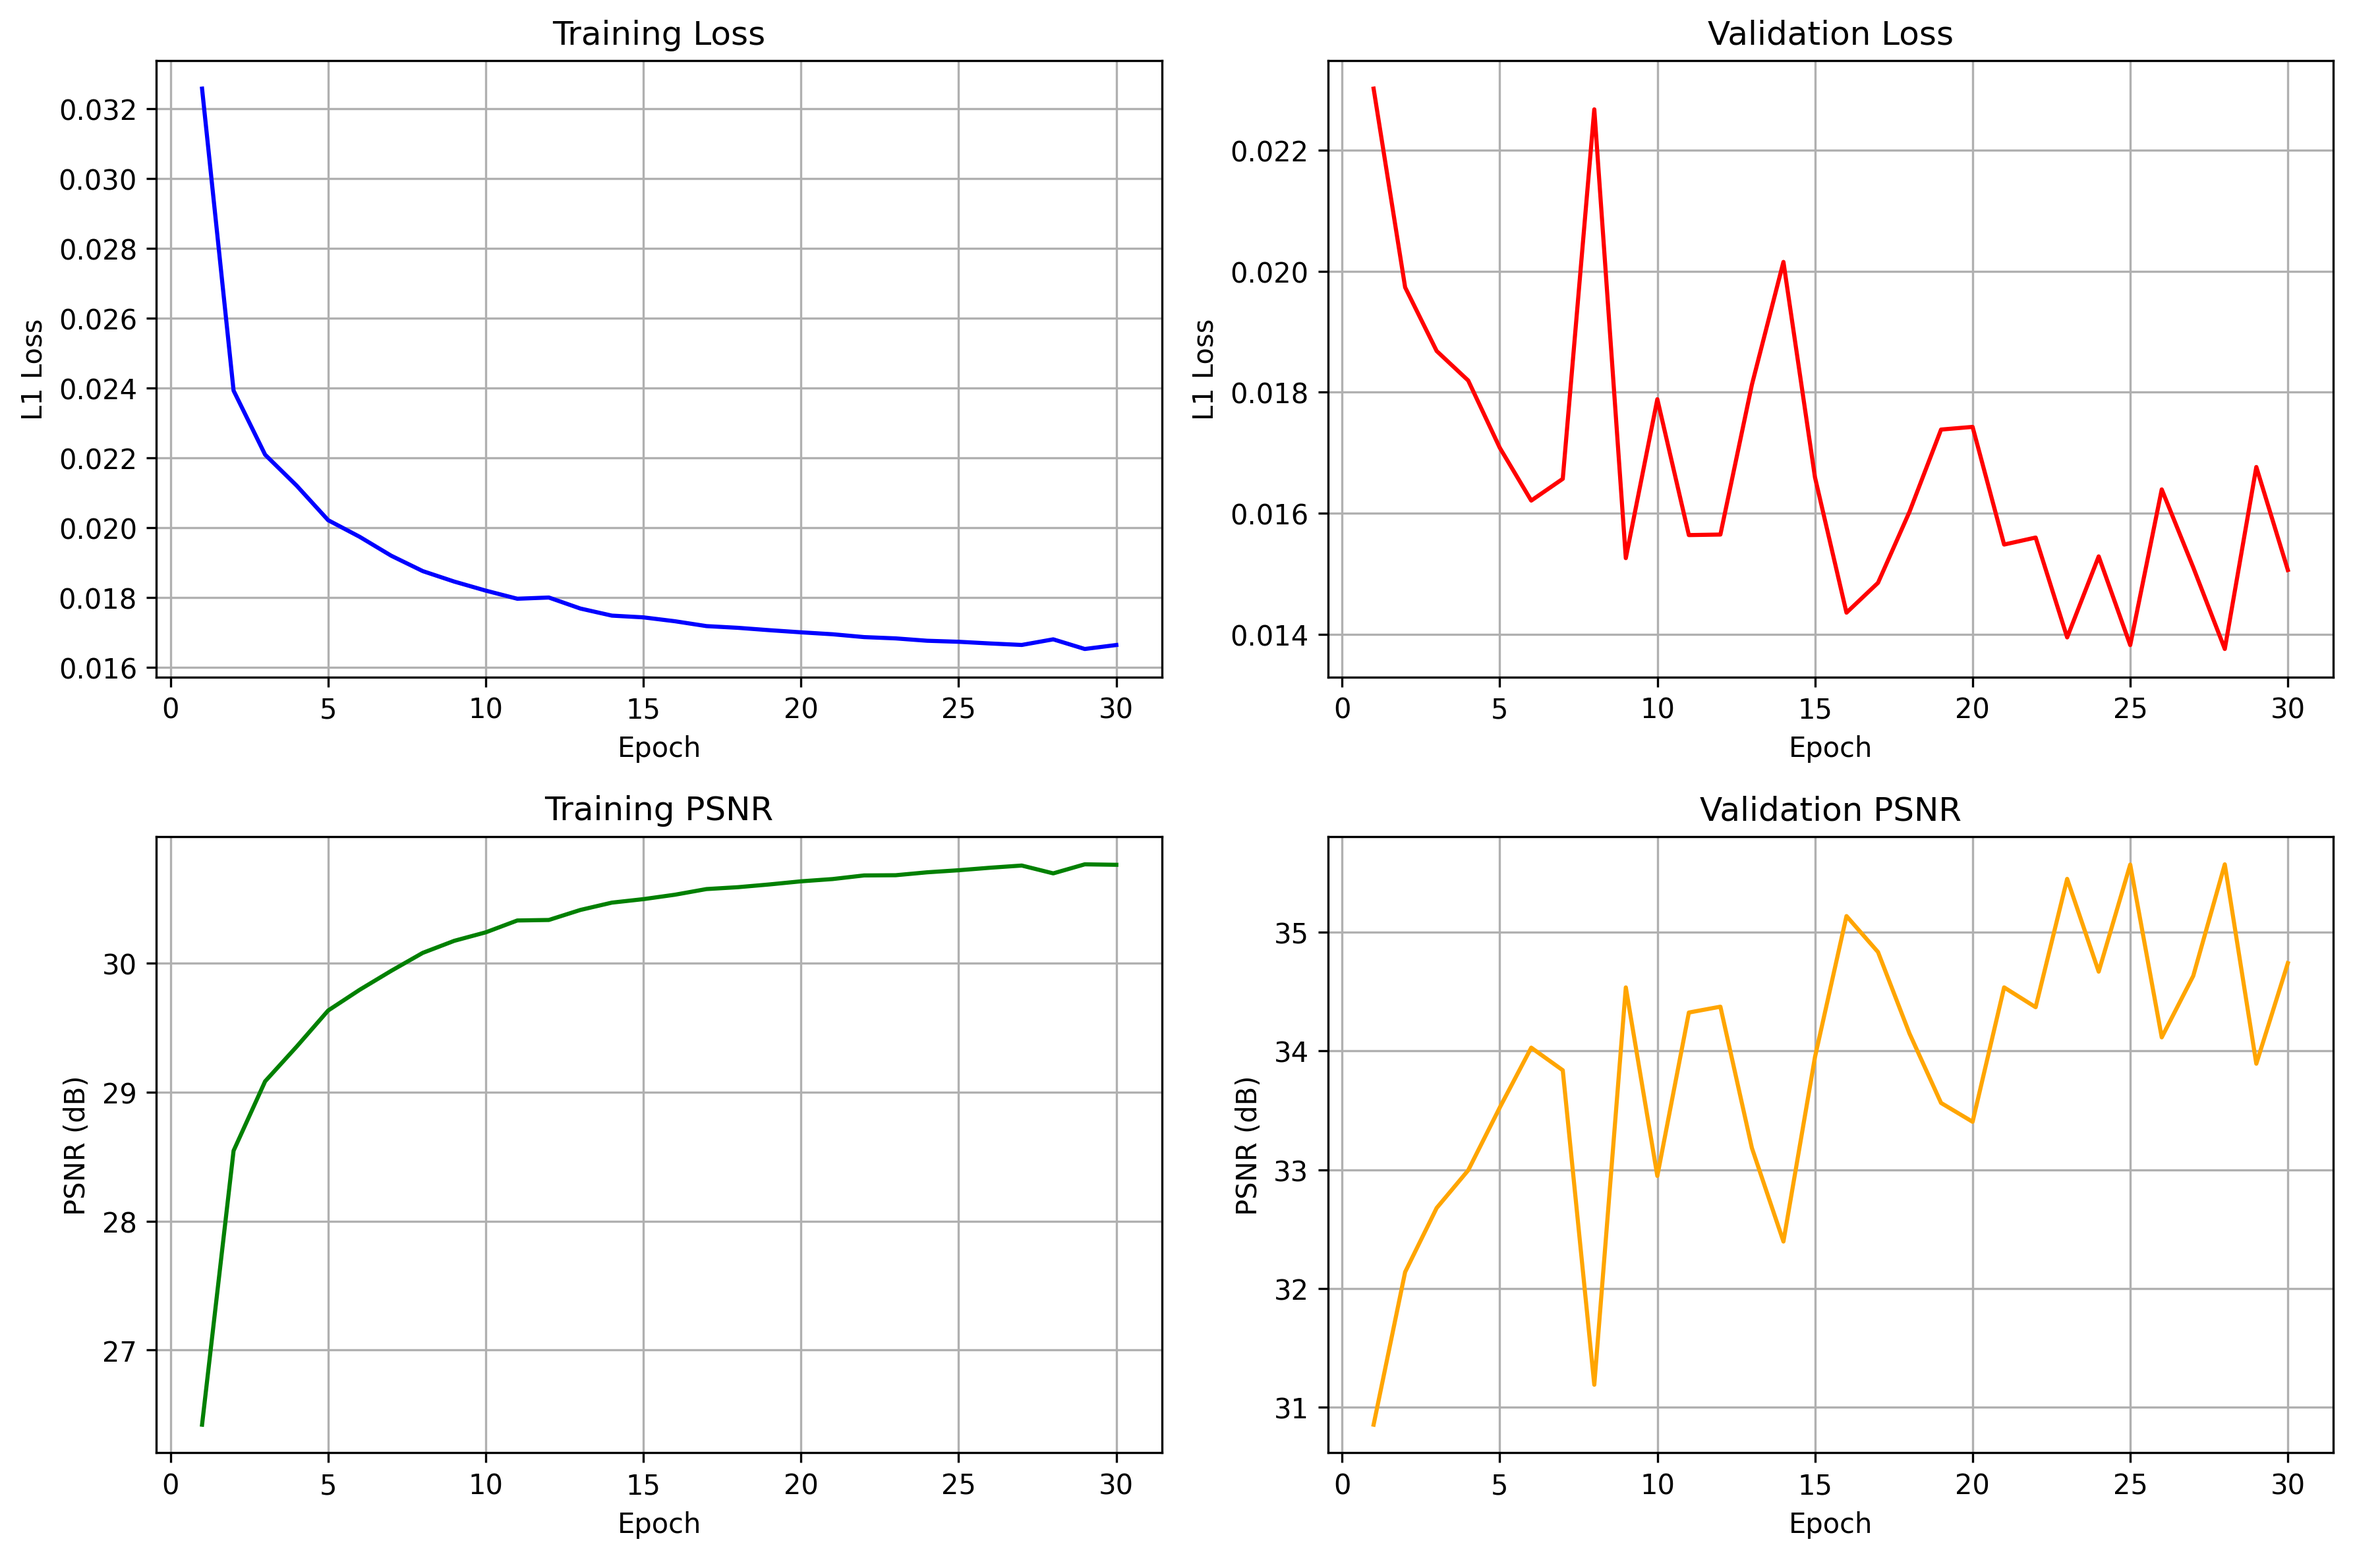
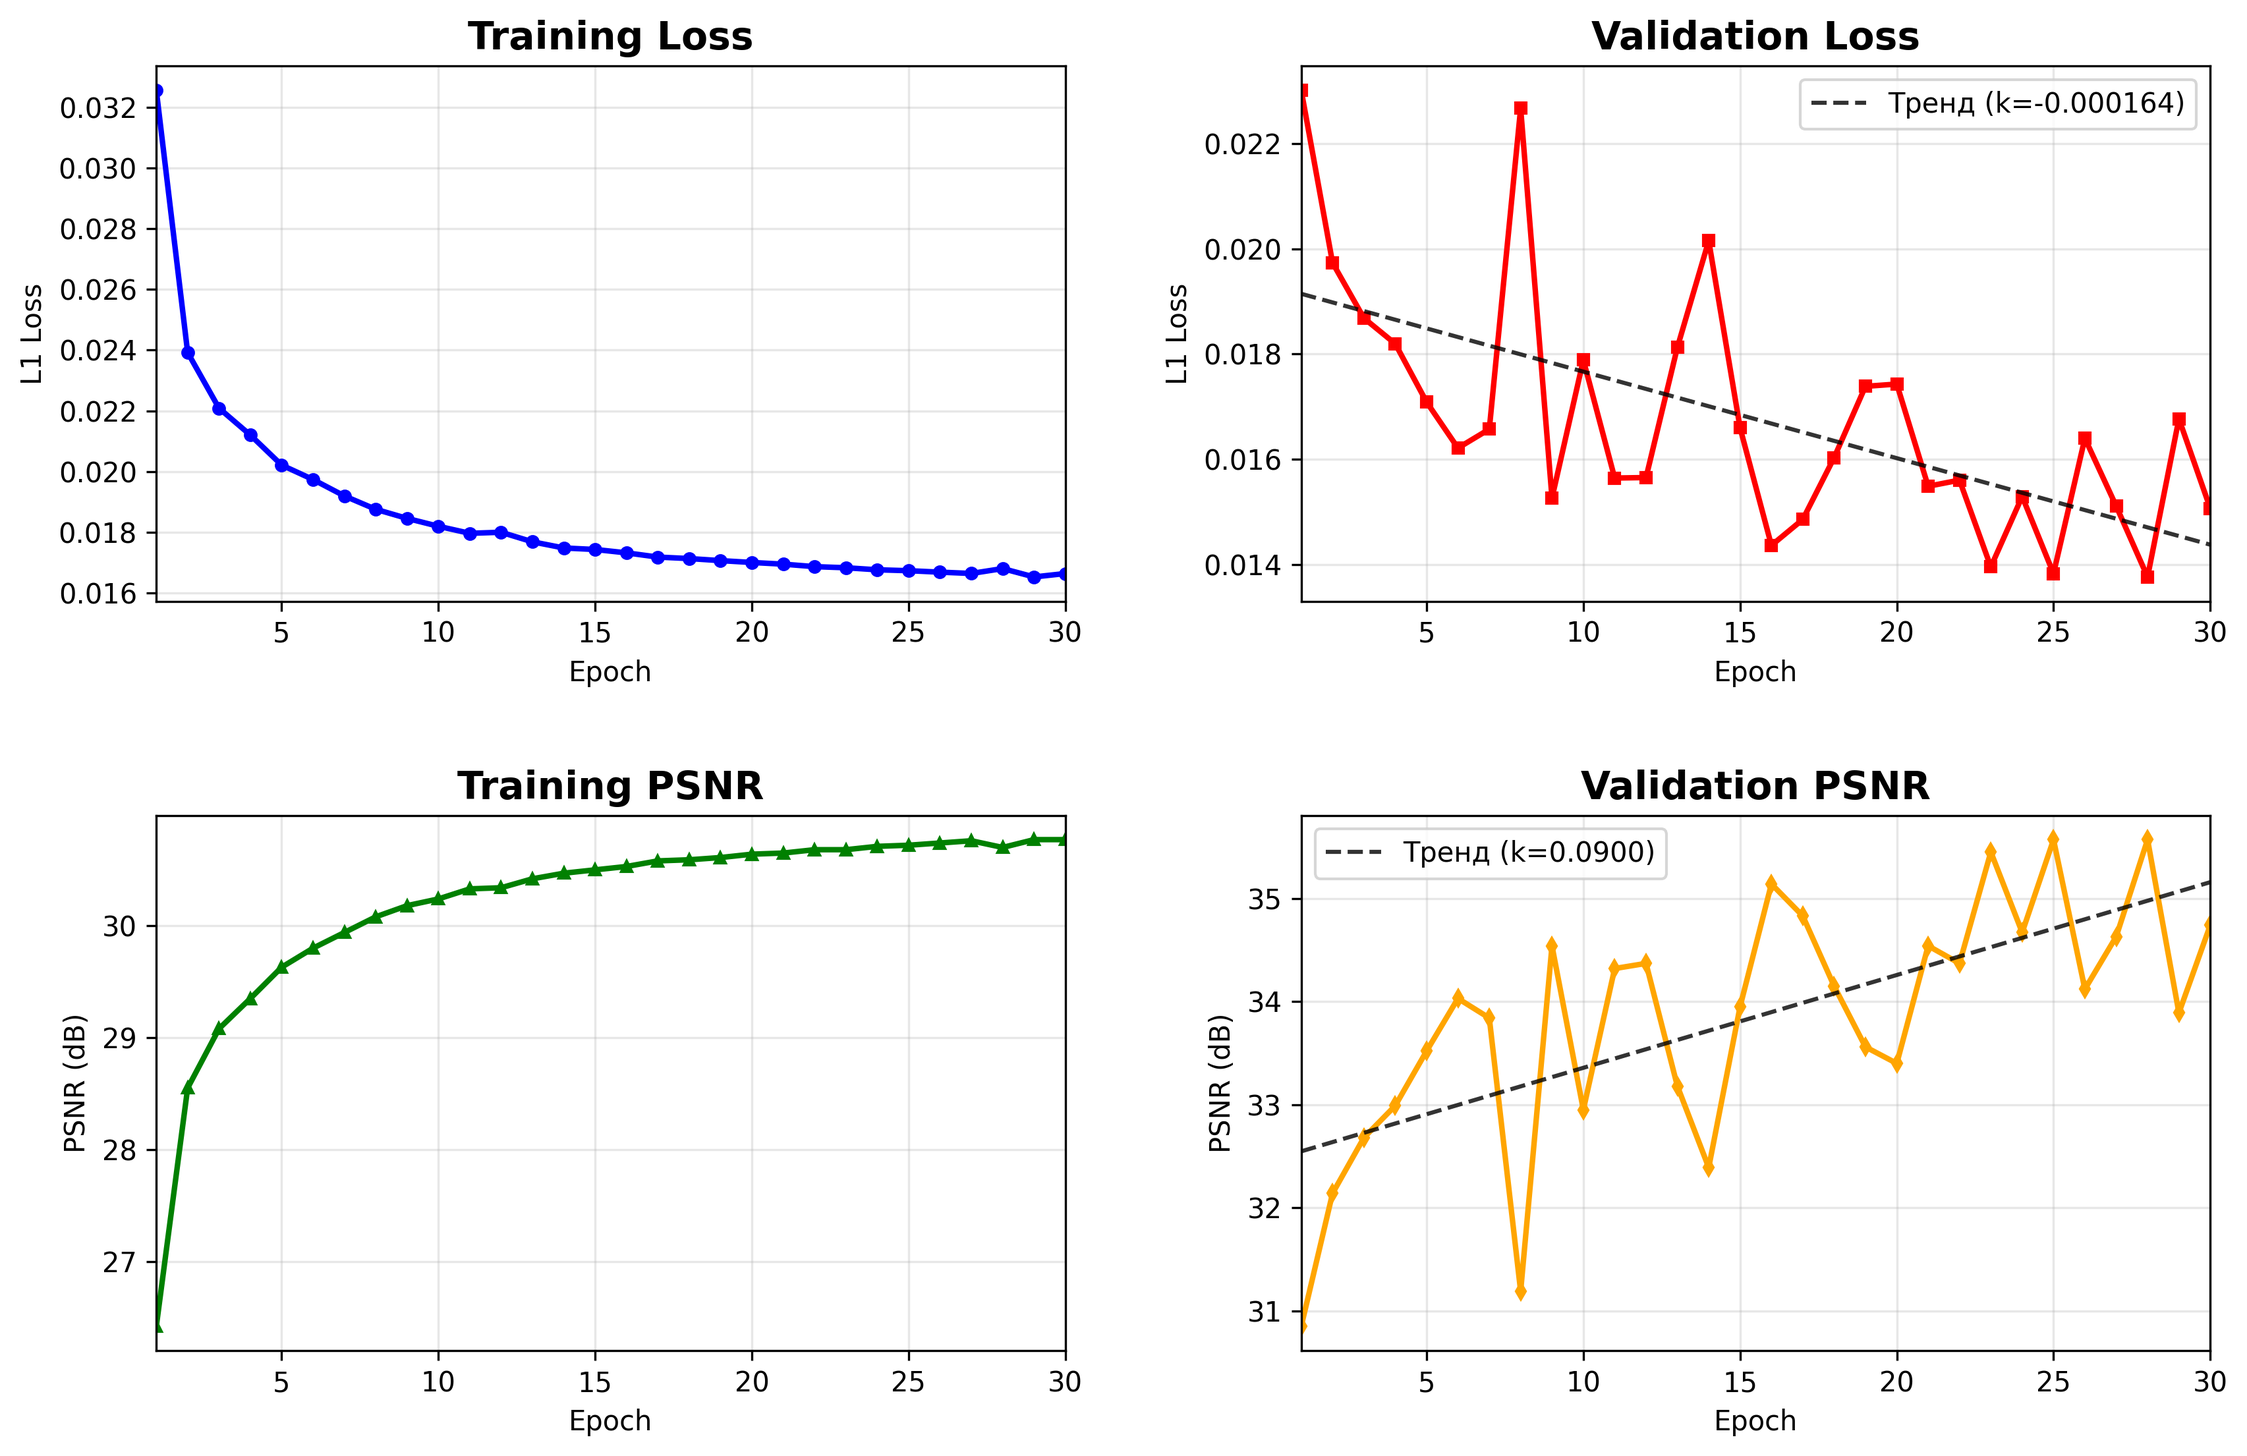
refactor: the charting has been changed

diff --git a/utils/plot_training_results.py b/utils/plot_training_results.py
@@ -1,0 +1,69 @@
+import matplotlib.pyplot as plt
+import pandas as pd
+import numpy as np
+
+def plot_training_metrics(log_file="training_results/training_log.txt", save_dir="training_results"):
+    """
+    Построение графиков метрик обучения из лог файла
+    """
+    # Чтение данных из файла
+    data = pd.read_csv(log_file, sep='\t')
+    
+    epochs = data['Epoch']
+    train_loss = data['Train_Loss']
+    valid_loss = data['Valid_Loss']
+    train_psnr = data['Train_PSNR']
+    valid_psnr = data['Valid_PSNR']
+    
+    # Создание фигуры с 4 подграфиками
+    fig, ((ax1, ax2), (ax3, ax4)) = plt.subplots(2, 2, figsize=(12, 8))
+    
+    # График Train Loss
+    ax1.plot(epochs, train_loss, 'b-', linewidth=2, marker='o', markersize=4)
+    ax1.set_title('Training Loss', fontsize=14, fontweight='bold')
+    ax1.set_xlabel('Epoch')
+    ax1.set_ylabel('L1 Loss')
+    ax1.grid(True, alpha=0.3)
+    ax1.set_xlim(1, max(epochs))
+    
+    # График Valid Loss с трендом
+    ax2.plot(epochs, valid_loss, 'r-', linewidth=2, marker='s', markersize=4)
+    z = np.polyfit(epochs, valid_loss, 1)
+    p = np.poly1d(z)
+    ax2.plot(epochs, p(epochs), 'k--', alpha=0.8, linewidth=1.5, label=f'Тренд (k={z[0]:.6f})')
+    ax2.set_title('Validation Loss', fontsize=14, fontweight='bold')
+    ax2.set_xlabel('Epoch')
+    ax2.set_ylabel('L1 Loss')
+    ax2.grid(True, alpha=0.3)
+    ax2.legend()
+    ax2.set_xlim(1, max(epochs))
+    
+    # График Train PSNR
+    ax3.plot(epochs, train_psnr, 'g-', linewidth=2, marker='^', markersize=4)
+    ax3.set_title('Training PSNR', fontsize=14, fontweight='bold')
+    ax3.set_xlabel('Epoch')
+    ax3.set_ylabel('PSNR (dB)')
+    ax3.grid(True, alpha=0.3)
+    ax3.set_xlim(1, max(epochs))
+    
+    # График Valid PSNR с трендом
+    ax4.plot(epochs, valid_psnr, 'orange', linewidth=2, marker='d', markersize=4)
+    z = np.polyfit(epochs, valid_psnr, 1)
+    p = np.poly1d(z)
+    ax4.plot(epochs, p(epochs), 'k--', alpha=0.8, linewidth=1.5, label=f'Тренд (k={z[0]:.4f})')
+    ax4.set_title('Validation PSNR', fontsize=14, fontweight='bold')
+    ax4.set_xlabel('Epoch')
+    ax4.set_ylabel('PSNR (dB)')
+    ax4.grid(True, alpha=0.3)
+    ax4.legend()
+    ax4.set_xlim(1, max(epochs))
+    
+    # Настройка общего вида
+    plt.tight_layout(pad=3.0)
+    
+    # Сохранение графика
+    plt.savefig(f'{save_dir}/training_curves.png', dpi=300, bbox_inches='tight')
+    plt.show()
+
+if __name__ == "__main__":
+    plot_training_metrics()

diff --git a/README.md b/README.md
@@ -1,3 +1,3 @@
 # FSRCNN_Simakov
-Repository with the code of the project work on the topic: "Image resolution enhancement using Convolutional neural Networks (FSRCNN)".
+Repository with the code of the project work on the topic: "Image resolution enhancement using Convolutional Neural Networks (FSRCNN)".
 
